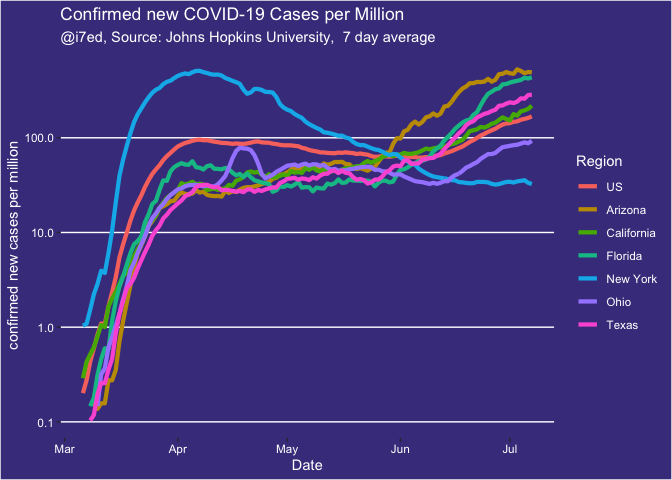
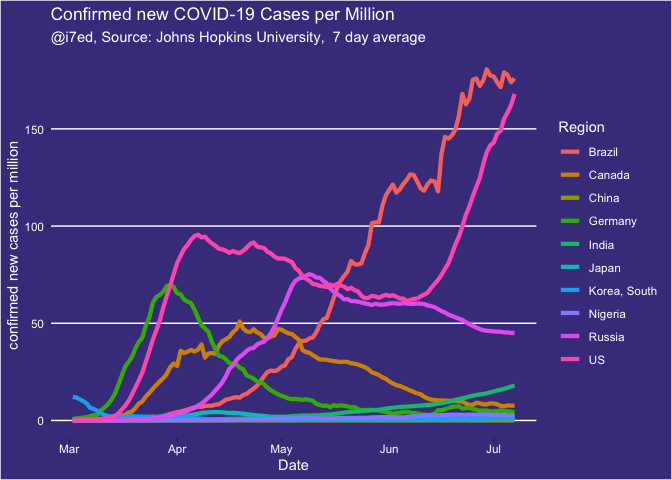
add more graphs for comparison

diff --git a/README.md b/README.md
@@ -22,8 +22,16 @@ Confirmed cases over time for different regions:
 
 ![](README_files/figure-gfm/unnamed-chunk-4-1.png)<!-- -->
 
+Some of the larger countries in the world:
+
+![](README_files/figure-gfm/unnamed-chunk-5-1.png)<!-- -->
+
+Japan and U.S.
+
+![](README_files/figure-gfm/unnamed-chunk-6-1.png)<!-- -->
+
 ## United States
 
 Some selected regions within the U.S.
 
-![](README_files/figure-gfm/unnamed-chunk-5-1.png)<!-- -->
+![](README_files/figure-gfm/unnamed-chunk-7-1.png)<!-- -->
